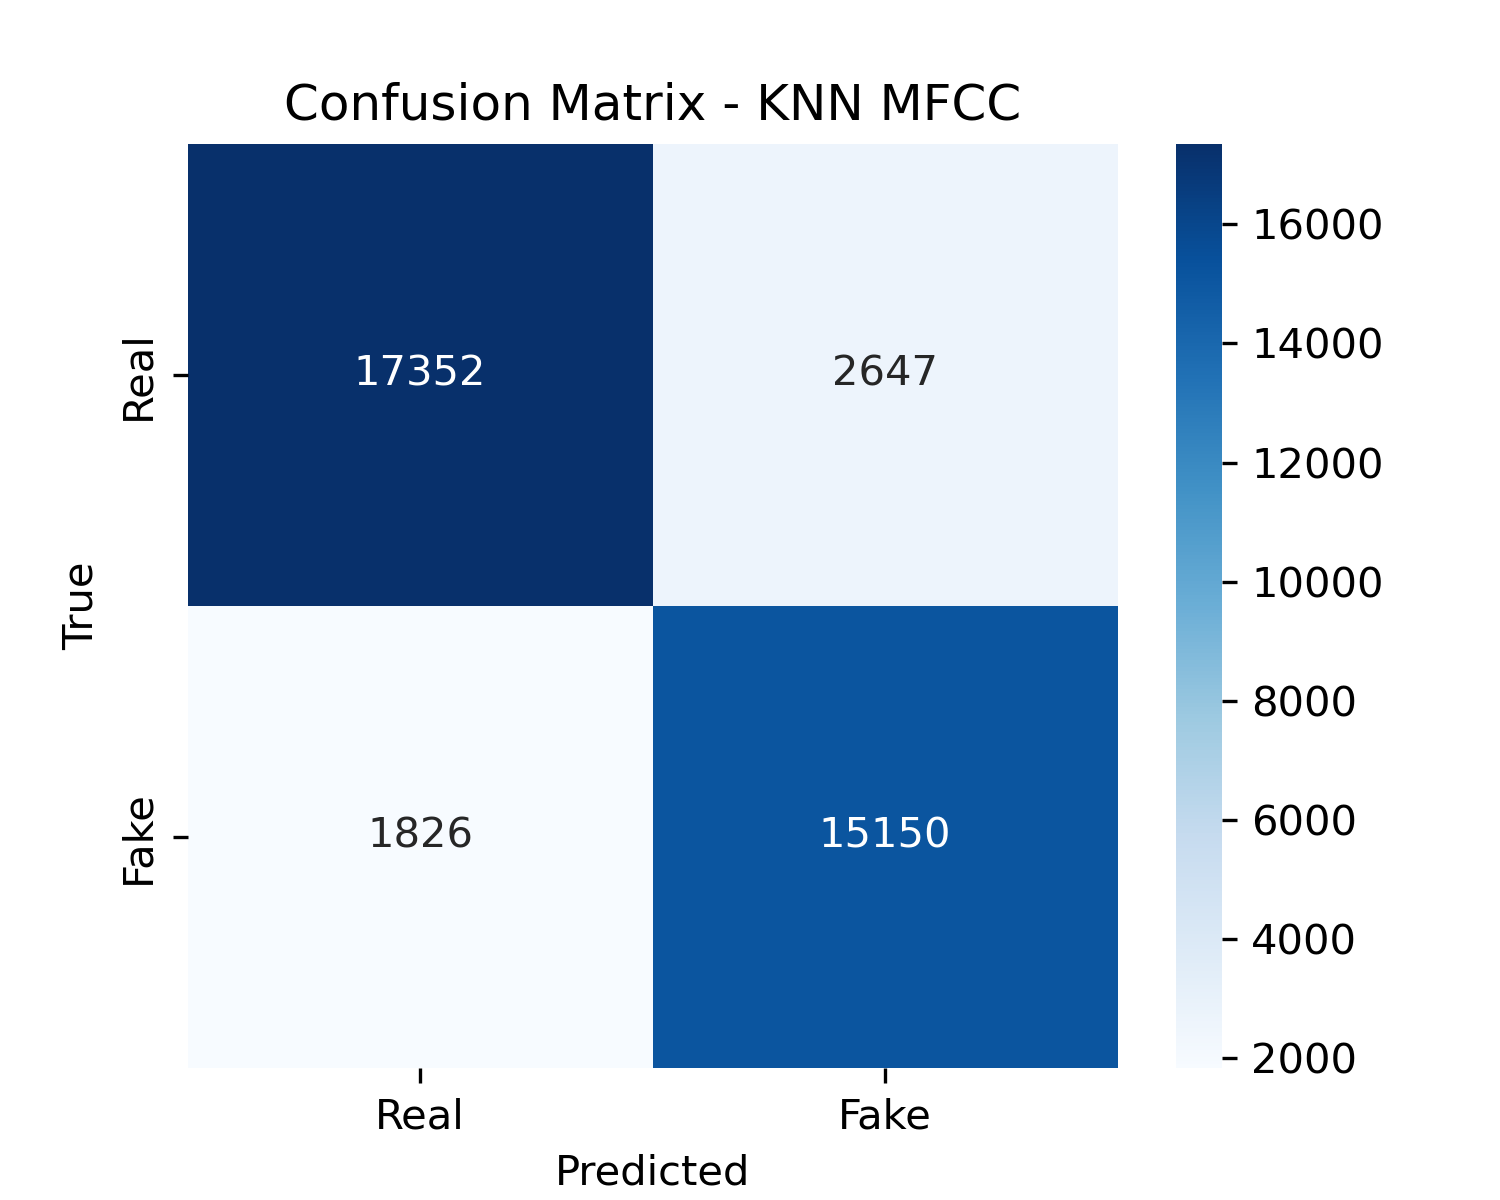
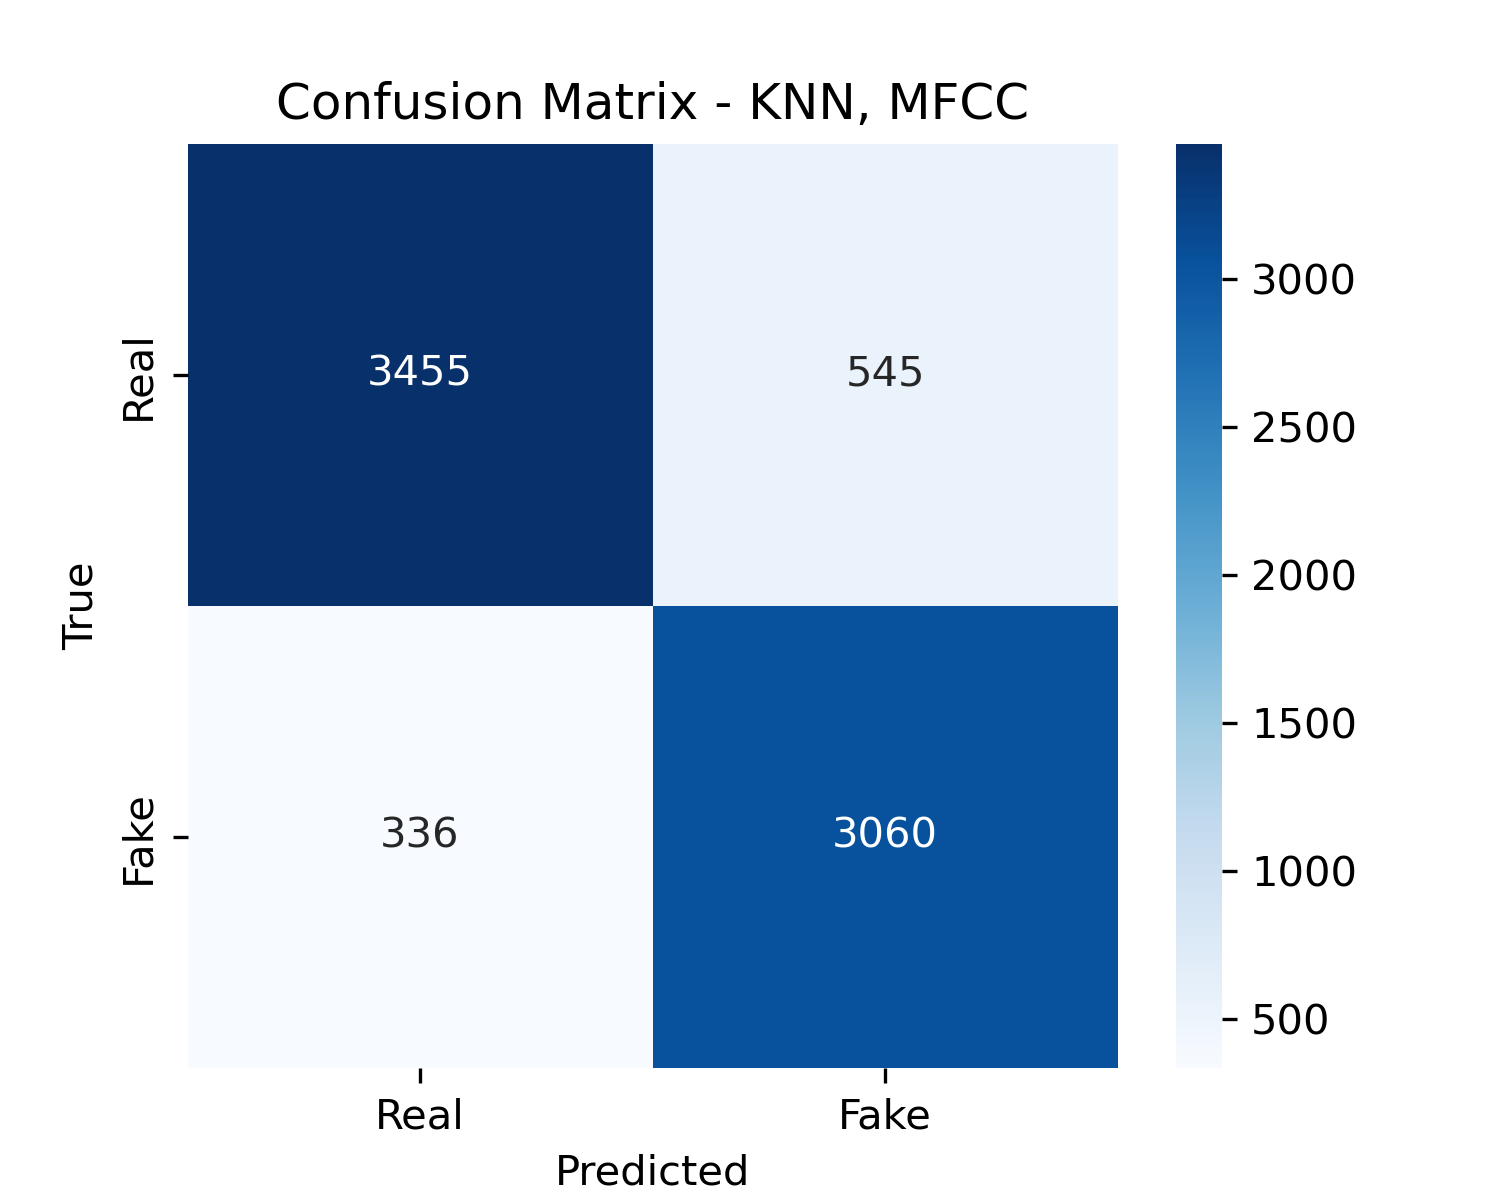
knn com ajuste na base de teste.

diff --git a/knn_v3.py b/knn_v3.py
@@ -1,5 +1,6 @@
 """
-Esta versão utiliza KNN com todas as amostras de teste
+Esta versão utiliza KNN com 20% das amostras de teste, para se adequar ao CNN e SVM.
+
 """
 
 import os
@@ -44,17 +45,23 @@ def _process_folder(root_folder, label):
     features_list = []
     labels_list = []
 
-    for dirpath, dirnames, filenames in os.walk(root_folder):
-        for filename in filenames:
-            if filename.lower().endswith(".wav"):
-                filepath = os.path.join(dirpath, filename)
-                print(f"Abrindo arquivo: {filepath}")
-                try:
-                    features = extract_features(filepath) 
-                    features_list.append(features)
-                    labels_list.append(label)
-                except Exception as e:
-                    print(f"⚠ Erro ao processar o arquivo {filepath}: {e}")
+    if isinstance(root_folder, list):  # lista de arquivos já coletados
+        file_list = root_folder
+    else:  # caminho de pasta
+        file_list = []
+        for dirpath, _, filenames in os.walk(root_folder):
+            for f in filenames:
+                if f.lower().endswith(".wav"):
+                    file_list.append(os.path.join(dirpath, f))
+
+    for filepath in file_list:
+        print(f"Abrindo arquivo: {filepath}")
+        try:
+            features = extract_features(filepath)
+            features_list.append(features)
+            labels_list.append(label)
+        except Exception as e:
+            print(f"⚠ Erro ao processar o arquivo {filepath}: {e}")
 
     return features_list, labels_list
 
@@ -73,9 +80,27 @@ def load_manual_dataset(real_train, fake_train, real_test, fake_test):
     X_rt, y_rt = _process_folder(real_train, 0)
     X_ft, y_ft = _process_folder(fake_train, 1)
 
-    print("\nCarregando dados de teste...")
-    X_rv, y_rv = _process_folder(real_test, 0)
-    X_fv, y_fv = _process_folder(fake_test, 1)
+    print("\nCarregando dados de teste... (apenas 20% sorteados)")
+
+    # Coleta todos os arquivos das pastas de teste
+    def collect_files(folder):
+        paths = []
+        for dirpath, _, filenames in os.walk(folder):
+            for f in filenames:
+                if f.lower().endswith(".wav"):
+                    paths.append(os.path.join(dirpath, f))
+        return paths
+
+    real_files = collect_files(real_test)
+    fake_files = collect_files(fake_test)
+
+    # Sorteia apenas 20% dos arquivos
+    real_train_part, real_test_part = train_test_split(real_files, test_size=0.2, random_state=42)
+    fake_train_part, fake_test_part = train_test_split(fake_files, test_size=0.2, random_state=42)
+
+    # Processa somente as amostras sorteadas
+    X_rv, y_rv = _process_folder(real_test_part, 0)
+    X_fv, y_fv = _process_folder(fake_test_part, 1)
 
     X_train = np.array(X_rt + X_ft)
     y_train = np.array(y_rt + y_ft)
